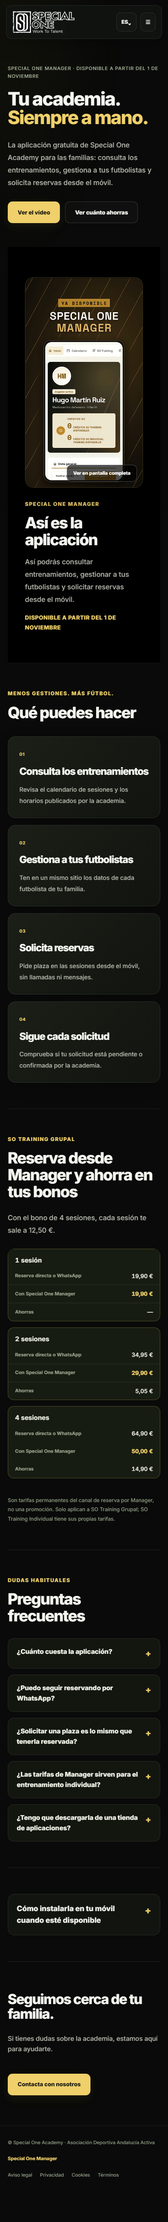
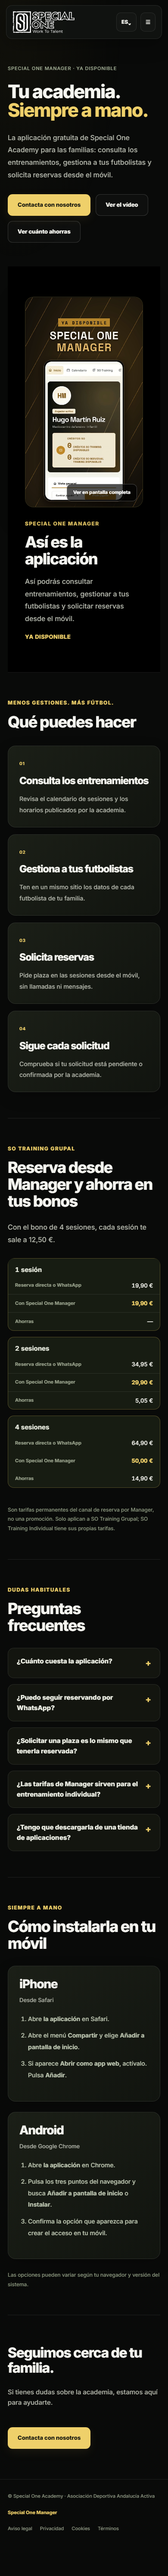
Add safety fallback for APP_URL_PENDIENTE on access buttons
If window.SOA_APP_URL is empty or still "APP_URL_PENDIENTE",
site-shell.js now hides every primary [data-app-link="primary"]
button (homepage Manager CTA, Manager page hero CTA) and reveals a
"Contacta con nosotros" button in its place instead. The inline
install-step links ([data-app-link="inline"]) become inert text
rather than dead links. This means merging this branch before the
real app URL is set no longer ships broken access buttons.

Verified with Playwright: both the pending and a simulated valid-URL
state render correctly.

diff --git a/specialone-vercel-clean/index.html b/specialone-vercel-clean/index.html
@@ -76,7 +76,7 @@ gtag("config", "G-HH45EVVGY7");
 </div>
 </header>
 <div id="season-floating-banner" role="region"><div class="season-bar"><button class="season-cta" data-en="Enrollment open in SO Training · Request a place →" data-es="Inscripciones abiertas en SO Training · Solicitar plaza →" onclick="openTally('NpMjqB')" type="button">Inscripciones abiertas en SO Training · Solicitar plaza →</button><button aria-label="Cerrar aviso" id="season-close" type="button">×</button></div></div>
-<section aria-labelledby="hero-title" class="hero"><div class="hero-stage container"><div class="hero-photo"><img alt="Jugador de Special One Academy durante un entrenamiento" fetchpriority="high" height="1440" src="assets/img/hero.jpg" width="1920"/></div><div class="hero-copy"><div class="hero-brandline" data-en="SPECIAL ONE ACADEMY · WORK TO TALENT" data-es="SPECIAL ONE ACADEMY · WORK TO TALENT">SPECIAL ONE ACADEMY · WORK TO TALENT</div><h1 data-en="Football technical training academy in Seville" data-es="Academia de tecnificación de fútbol en Sevilla" id="hero-title">Academia de tecnificación de fútbol en Sevilla</h1><p data-en="Specific training, close attention and qualified coaches to complement the work the player does at their club." data-es="Entrenamiento específico, atención cercana y entrenadores cualificados para complementar el trabajo que el futbolista hace en su club.">Entrenamiento específico, atención cercana y entrenadores cualificados para complementar el trabajo que el futbolista hace en su club.</p><div class="hero-actions"><a class="btn" data-en="See programs" data-es="Ver programas" href="#programas">Ver programas</a><a class="btn secondary" data-en="Talk on WhatsApp" data-es="Hablar por WhatsApp" href="https://wa.me/34614806029" rel="noopener" target="_blank">Hablar por WhatsApp</a></div></div><aside aria-labelledby="hero-manager-title" class="hero-manager"><div class="eyebrow" data-en="AVAILABLE NOW" data-es="YA DISPONIBLE">YA DISPONIBLE</div><h2 data-en="Special One Manager, the academy's app for families" data-es="Special One Manager, la app de la academia para las familias" id="hero-manager-title">Special One Manager, la app de la academia para las familias</h2><div class="video-shell"><video aria-label="Vídeo de presentación de Special One Manager" class="manager-film" controls="" playsinline="" poster="assets/manager-poster.jpg" preload="metadata"><source src="assets/special-one-manager.mp4" type="video/mp4"/></video></div><p data-en="Check training sessions and request bookings from your phone. And if you book your SO Training Grupal bundles through the app, each session costs less." data-es="Consulta entrenamientos y solicita reservas desde el móvil. Y si reservas tus bonos de SO Training Grupal desde la app, cada sesión te sale más barata.">Consulta entrenamientos y solicita reservas desde el móvil. Y si reservas tus bonos de SO Training Grupal desde la app, cada sesión te sale más barata.</p><a class="btn hero-manager-cta" data-app-link="" data-en="Open Special One Manager" data-es="Abrir Special One Manager" href="/special-one-manager.html">Abrir Special One Manager</a></aside></div></section>
+<section aria-labelledby="hero-title" class="hero"><div class="hero-stage container"><div class="hero-photo"><img alt="Jugador de Special One Academy durante un entrenamiento" fetchpriority="high" height="1440" src="assets/img/hero.jpg" width="1920"/></div><div class="hero-copy"><div class="hero-brandline" data-en="SPECIAL ONE ACADEMY · WORK TO TALENT" data-es="SPECIAL ONE ACADEMY · WORK TO TALENT">SPECIAL ONE ACADEMY · WORK TO TALENT</div><h1 data-en="Football technical training academy in Seville" data-es="Academia de tecnificación de fútbol en Sevilla" id="hero-title">Academia de tecnificación de fútbol en Sevilla</h1><p data-en="Specific training, close attention and qualified coaches to complement the work the player does at their club." data-es="Entrenamiento específico, atención cercana y entrenadores cualificados para complementar el trabajo que el futbolista hace en su club.">Entrenamiento específico, atención cercana y entrenadores cualificados para complementar el trabajo que el futbolista hace en su club.</p><div class="hero-actions"><a class="btn" data-en="See programs" data-es="Ver programas" href="#programas">Ver programas</a><a class="btn secondary" data-en="Talk on WhatsApp" data-es="Hablar por WhatsApp" href="https://wa.me/34614806029" rel="noopener" target="_blank">Hablar por WhatsApp</a></div></div><aside aria-labelledby="hero-manager-title" class="hero-manager"><div class="eyebrow" data-en="AVAILABLE NOW" data-es="YA DISPONIBLE">YA DISPONIBLE</div><h2 data-en="Special One Manager, the academy's app for families" data-es="Special One Manager, la app de la academia para las familias" id="hero-manager-title">Special One Manager, la app de la academia para las familias</h2><div class="video-shell"><video aria-label="Vídeo de presentación de Special One Manager" class="manager-film" controls="" playsinline="" poster="assets/manager-poster.jpg" preload="metadata"><source src="assets/special-one-manager.mp4" type="video/mp4"/></video></div><p data-en="Check training sessions and request bookings from your phone. And if you book your SO Training Grupal bundles through the app, each session costs less." data-es="Consulta entrenamientos y solicita reservas desde el móvil. Y si reservas tus bonos de SO Training Grupal desde la app, cada sesión te sale más barata.">Consulta entrenamientos y solicita reservas desde el móvil. Y si reservas tus bonos de SO Training Grupal desde la app, cada sesión te sale más barata.</p><a class="btn hero-manager-cta" data-app-link="primary" data-en="Open Special One Manager" data-es="Abrir Special One Manager" href="/special-one-manager.html">Abrir Special One Manager</a><a class="btn hero-manager-cta" data-app-fallback="" data-en="Contact us" data-es="Contacta con nosotros" href="#contacto" style="display:none">Contacta con nosotros</a></aside></div></section>
 <div class="launch-trust container"> <div class="hero-feature">
 <div class="icon-box">
 <svg fill="none" stroke="currentColor" viewbox="0 0 24 24"><path d="M16 21v-2a4 4 0 0 0-8 0v2"></path><circle cx="12" cy="7" r="4"></circle><path d="M22 21v-2a4 4 0 0 0-3-3.87"></path><path d="M2 21v-2a4 4 0 0 1 3-3.87"></path></svg>

diff --git a/specialone-vercel-clean/special-one-manager.html b/specialone-vercel-clean/special-one-manager.html
@@ -44,7 +44,7 @@
 <h1 data-en="Your academy.&lt;br&gt;&lt;span&gt;Always at hand.&lt;/span&gt;" data-es="Tu academia.&lt;br&gt;&lt;span&gt;Siempre a mano.&lt;/span&gt;" data-rich="" id="manager-title">Tu academia.<br/><span>Siempre a mano.</span></h1>
 <p class="manager-lead" data-en="Special One Academy's free app for families: check training sessions, manage your players and request bookings from your phone." data-es="La aplicación gratuita de Special One Academy para las familias: consulta los entrenamientos, gestiona a tus futbolistas y solicita reservas desde el móvil.">La aplicación gratuita de Special One Academy para las familias: consulta los entrenamientos, gestiona a tus futbolistas y solicita reservas desde el móvil.</p>
 <div class="manager-hero-actions">
-<a class="btn" data-app-link="" data-en="Open Special One Manager" data-es="Abrir Special One Manager" href="#video-manager">Abrir Special One Manager</a>
+<a class="btn" data-app-link="primary" data-en="Open Special One Manager" data-es="Abrir Special One Manager" href="#video-manager">Abrir Special One Manager</a><a class="btn" data-app-fallback="" data-en="Contact us" data-es="Contacta con nosotros" href="/#contacto" style="display:none">Contacta con nosotros</a>
 <a class="btn secondary" data-en="Watch the video" data-es="Ver el vídeo" href="#video-manager">Ver el vídeo</a>
 <a class="btn secondary" data-en="See how much you save" data-es="Ver cuánto ahorras" href="#ahorro">Ver cuánto ahorras</a>
 </div>
@@ -106,8 +106,8 @@
 <div class="manager-kicker" data-en="Always at hand" data-es="Siempre a mano">Siempre a mano</div>
 <h2 data-en="How to install it on your phone" data-es="Cómo instalarla en tu móvil" id="install-title">Cómo instalarla en tu móvil</h2>
 <div class="manager-install">
-<article class="manager-device"><h3>iPhone</h3><p data-en="Using Safari" data-es="Desde Safari">Desde Safari</p><ol><li>Abre <a data-app-link="" href="#">la aplicación</a> en Safari.</li><li data-en="Tap &lt;strong&gt;Share&lt;/strong&gt;, then &lt;strong&gt;Add to Home Screen&lt;/strong&gt;." data-es="Abre el menú &lt;strong&gt;Compartir&lt;/strong&gt; y elige &lt;strong&gt;Añadir a pantalla de inicio&lt;/strong&gt;." data-rich="">Abre el menú <strong>Compartir</strong> y elige <strong>Añadir a pantalla de inicio</strong>.</li><li data-en="If &lt;strong&gt;Open as Web App&lt;/strong&gt; appears, turn it on. Tap &lt;strong&gt;Add&lt;/strong&gt;." data-es="Si aparece &lt;strong&gt;Abrir como app web&lt;/strong&gt;, actívalo. Pulsa &lt;strong&gt;Añadir&lt;/strong&gt;." data-rich="">Si aparece <strong>Abrir como app web</strong>, actívalo. Pulsa <strong>Añadir</strong>.</li></ol></article>
-<article class="manager-device"><h3>Android</h3><p data-en="Using Google Chrome" data-es="Desde Google Chrome">Desde Google Chrome</p><ol><li>Abre <a data-app-link="" href="#">la aplicación</a> en Chrome.</li><li data-en="Tap the three-dot browser menu and choose &lt;strong&gt;Add to Home Screen&lt;/strong&gt; or &lt;strong&gt;Install&lt;/strong&gt;." data-es="Pulsa los tres puntos del navegador y busca &lt;strong&gt;Añadir a pantalla de inicio&lt;/strong&gt; o &lt;strong&gt;Instalar&lt;/strong&gt;." data-rich="">Pulsa los tres puntos del navegador y busca <strong>Añadir a pantalla de inicio</strong> o <strong>Instalar</strong>.</li><li data-en="Confirm the option shown to add the app to your phone." data-es="Confirma la opción que aparezca para crear el acceso en tu móvil.">Confirma la opción que aparezca para crear el acceso en tu móvil.</li></ol></article>
+<article class="manager-device"><h3>iPhone</h3><p data-en="Using Safari" data-es="Desde Safari">Desde Safari</p><ol><li>Abre <a data-app-link="inline" href="#">la aplicación</a> en Safari.</li><li data-en="Tap &lt;strong&gt;Share&lt;/strong&gt;, then &lt;strong&gt;Add to Home Screen&lt;/strong&gt;." data-es="Abre el menú &lt;strong&gt;Compartir&lt;/strong&gt; y elige &lt;strong&gt;Añadir a pantalla de inicio&lt;/strong&gt;." data-rich="">Abre el menú <strong>Compartir</strong> y elige <strong>Añadir a pantalla de inicio</strong>.</li><li data-en="If &lt;strong&gt;Open as Web App&lt;/strong&gt; appears, turn it on. Tap &lt;strong&gt;Add&lt;/strong&gt;." data-es="Si aparece &lt;strong&gt;Abrir como app web&lt;/strong&gt;, actívalo. Pulsa &lt;strong&gt;Añadir&lt;/strong&gt;." data-rich="">Si aparece <strong>Abrir como app web</strong>, actívalo. Pulsa <strong>Añadir</strong>.</li></ol></article>
+<article class="manager-device"><h3>Android</h3><p data-en="Using Google Chrome" data-es="Desde Google Chrome">Desde Google Chrome</p><ol><li>Abre <a data-app-link="inline" href="#">la aplicación</a> en Chrome.</li><li data-en="Tap the three-dot browser menu and choose &lt;strong&gt;Add to Home Screen&lt;/strong&gt; or &lt;strong&gt;Install&lt;/strong&gt;." data-es="Pulsa los tres puntos del navegador y busca &lt;strong&gt;Añadir a pantalla de inicio&lt;/strong&gt; o &lt;strong&gt;Instalar&lt;/strong&gt;." data-rich="">Pulsa los tres puntos del navegador y busca <strong>Añadir a pantalla de inicio</strong> o <strong>Instalar</strong>.</li><li data-en="Confirm the option shown to add the app to your phone." data-es="Confirma la opción que aparezca para crear el acceso en tu móvil.">Confirma la opción que aparezca para crear el acceso en tu móvil.</li></ol></article>
 </div>
 <p class="manager-note" data-en="Options vary by browser and operating system." data-es="Las opciones pueden variar según tu navegador y versión del sistema.">Las opciones pueden variar según tu navegador y versión del sistema.</p>
 </section>

diff --git a/specialone-vercel-clean/assets/site-shell.js b/specialone-vercel-clean/assets/site-shell.js
@@ -1,2 +1,2 @@
-(()=>{if(window.SOA_APP_URL){document.querySelectorAll('[data-app-link]').forEach(el=>el.setAttribute('href',window.SOA_APP_URL))}})();
+(()=>{const url=window.SOA_APP_URL;const valid=!!url&&url!=='APP_URL_PENDIENTE';document.querySelectorAll('[data-app-link]').forEach(el=>{if(valid){el.setAttribute('href',url);return}if(el.dataset.appLink==='primary'){el.style.display='none';const fb=el.nextElementSibling;if(fb&&fb.hasAttribute('data-app-fallback'))fb.style.removeProperty('display')}else{el.removeAttribute('href');el.style.color='inherit';el.style.textDecoration='none';el.style.cursor='default'}})})();
 (()=>{const nav=document.querySelector('.nav'),toggle=document.querySelector('.mobile-toggle');const close=()=>{nav?.classList.remove('open');toggle?.setAttribute('aria-expanded','false')};toggle?.addEventListener('click',()=>{const open=nav.classList.toggle('open');toggle.setAttribute('aria-expanded',String(open))});document.querySelectorAll('.links a').forEach(a=>a.addEventListener('click',close));document.addEventListener('keydown',e=>{if(e.key==='Escape')close()});const scroll=()=>nav?.classList.toggle('scrolled',window.scrollY>20);window.addEventListener('scroll',scroll,{passive:true});scroll();const io=new IntersectionObserver(entries=>entries.forEach(e=>{if(e.isIntersecting){e.target.classList.add('on');io.unobserve(e.target)}}),{threshold:.08});document.querySelectorAll('.reveal').forEach(el=>io.observe(el));})();
